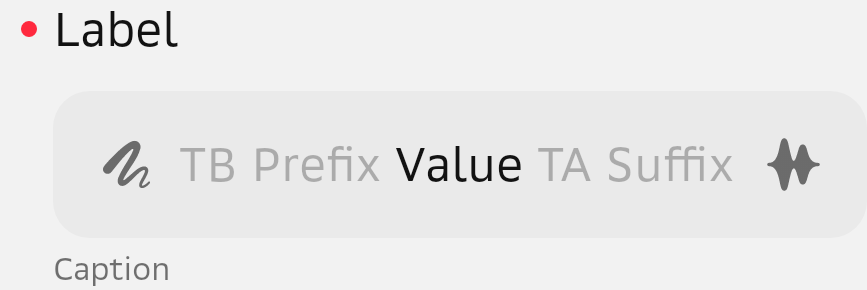
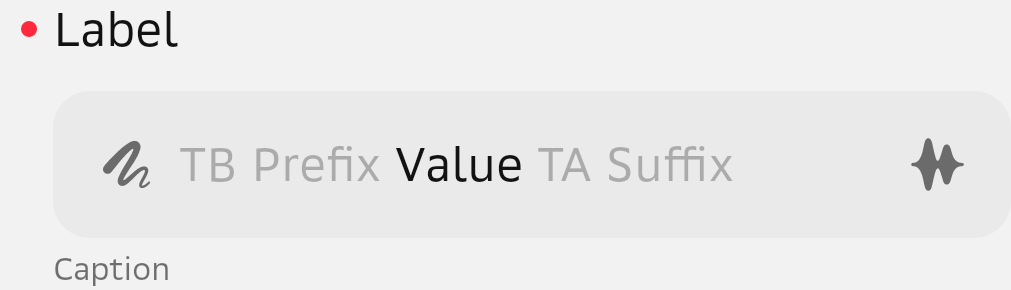
feat(sdds-acore/uikit-compose): prefix and suffix for placeholder were added

diff --git a/sdds-core/uikit-compose/src/main/kotlin/com/sdds/compose/uikit/internal/textfield/BaseTextField.kt b/sdds-core/uikit-compose/src/main/kotlin/com/sdds/compose/uikit/internal/textfield/BaseTextField.kt
@@ -43,6 +43,7 @@ import androidx.compose.ui.layout.MeasureScope
 import androidx.compose.ui.layout.layoutId
 import androidx.compose.ui.platform.LocalLayoutDirection
 import androidx.compose.ui.platform.testTag
+import androidx.compose.ui.text.AnnotatedString
 import androidx.compose.ui.text.TextStyle
 import androidx.compose.ui.text.input.TextFieldValue
 import androidx.compose.ui.text.input.VisualTransformation
@@ -73,7 +74,6 @@ import com.sdds.compose.uikit.internal.focusselector.LocalFocusSelectorMode
 import com.sdds.compose.uikit.internal.focusselector.applyFocusSelector
 import com.sdds.compose.uikit.internal.heightOrZero
 import com.sdds.compose.uikit.internal.widthOrZero
-import com.sdds.compose.uikit.prefixSuffixTransformation
 import com.sdds.compose.uikit.scrollbar
 
 /**
@@ -179,19 +179,26 @@ internal fun BaseTextField(
     val finalOptionalText =
         if (labelPlacement == LabelPlacement.None) "" else optionalText
 
-    val innerVisualTransformation = remember(
-        prefix,
-        suffix,
-        visualTransformation,
-        prefixStyle,
-        suffixStyle,
-    ) {
-        if (prefix.isNullOrEmpty() && suffix.isNullOrEmpty()) {
-            visualTransformation
-        } else {
-            prefixSuffixTransformation(prefix, suffix, prefixStyle, suffixStyle)
-        }
+    val valuePrefixSuffixTransformation = rememberPrefixSuffixTransformation(
+        prefix = prefix,
+        suffix = suffix,
+        prefixTextStyle = prefixStyle,
+        suffixTextStyle = suffixStyle,
+        transparent = value.text.isEmpty(),
+    )
+    val valueTransformation = if (prefix.isNullOrEmpty() && suffix.isNullOrEmpty()) {
+        visualTransformation
+    } else {
+        valuePrefixSuffixTransformation
     }
+    val placeholderPrefixSuffixTransformation = rememberPrefixSuffixTransformation(
+        prefix = prefix,
+        suffix = suffix,
+        prefixTextStyle = prefixStyle,
+        suffixTextStyle = suffixStyle,
+        transparent = value.text.isNotEmpty(),
+    )
+
     var isComponentFocused by remember { mutableStateOf(false) }
 
     /**
@@ -245,7 +252,7 @@ internal fun BaseTextField(
         keyboardOptions = keyboardOptions,
         keyboardActions = keyboardActions,
         singleLine = singleLine,
-        visualTransformation = innerVisualTransformation,
+        visualTransformation = valueTransformation,
         interactionSource = innerInteractionSource,
         cursorBrush = SolidColor(
             colors.cursorColor(readOnly).colorForInteraction(interactionSource),
@@ -331,7 +338,7 @@ internal fun BaseTextField(
                             ),
                         value = value.text,
                         innerTextField = it,
-                        visualTransformation = innerVisualTransformation,
+                        visualTransformation = visualTransformation,
                         interactionSource = innerInteractionSource,
                         innerLabel = innerLabel(
                             label = finalLabelText,
@@ -352,7 +359,11 @@ internal fun BaseTextField(
                             innerOptionalStyle = optionalStyle,
                             hasChips = chipsContent != null,
                         ),
-                        placeholder = placeholder(placeholderText, placeholderStyle),
+                        placeholder = placeholder(
+                            placeholderText,
+                            placeholderStyle,
+                            placeholderPrefixSuffixTransformation,
+                        ),
                         startIcon = icon(
                             startContent,
                             colors
@@ -648,11 +659,13 @@ private fun outerLabelIndicatorAlignment(fieldType: FieldType): Alignment {
 private fun placeholder(
     placeholder: String?,
     textStyle: TextStyle,
+    visualTransformation: VisualTransformation,
 ): @Composable (() -> Unit)? {
-    if (placeholder == null) return null
+    if (placeholder.isNullOrEmpty()) return null
     return {
+        val annotatedPlaceholder = visualTransformation.filter(AnnotatedString(placeholder)).text
         Text(
-            text = placeholder,
+            text = annotatedPlaceholder,
             style = textStyle,
         )
     }

diff --git a/sdds-core/uikit-compose/src/main/kotlin/com/sdds/compose/uikit/internal/textfield/PrefixSuffixTransformation.kt b/sdds-core/uikit-compose/src/main/kotlin/com/sdds/compose/uikit/internal/textfield/PrefixSuffixTransformation.kt
@@ -1,5 +1,8 @@
 package com.sdds.compose.uikit.internal.textfield
 
+import androidx.compose.runtime.Composable
+import androidx.compose.runtime.remember
+import androidx.compose.ui.graphics.Color
 import androidx.compose.ui.text.AnnotatedString
 import androidx.compose.ui.text.TextStyle
 import androidx.compose.ui.text.input.OffsetMapping
@@ -11,20 +14,34 @@ internal class PrefixSuffixTransformation(
     suffix: String = "",
     prefixTextStyle: TextStyle = TextStyle(),
     suffixTextStyle: TextStyle = TextStyle(),
+    transparent: Boolean = false,
 ) : VisualTransformation {
 
     private val prefixWithWhiteSpace = if (prefix.isNotEmpty()) "$prefix " else ""
-    private val suffixWithWhiteSpace = if (suffix.isNotEmpty())" $suffix" else ""
+    private val suffixWithWhiteSpace = if (suffix.isNotEmpty()) " $suffix" else ""
+
+    private val prefixSpanStyle = if (transparent) {
+        prefixTextStyle.copy(color = Color.Transparent)
+    } else {
+        prefixTextStyle
+    }.toSpanStyle()
+
+    private val suffixSpanStyle = if (transparent) {
+        suffixTextStyle.copy(color = Color.Transparent)
+    } else {
+        suffixTextStyle
+    }.toSpanStyle()
 
     private val prefixAnnotated = AnnotatedString(
         text = prefixWithWhiteSpace,
-        spanStyle = prefixTextStyle.toSpanStyle(),
+        spanStyle = prefixSpanStyle,
     )
 
     private val suffixAnnotated = AnnotatedString(
         text = suffixWithWhiteSpace,
-        spanStyle = suffixTextStyle.toSpanStyle(),
+        spanStyle = suffixSpanStyle,
     )
+
     override fun filter(text: AnnotatedString): TransformedText {
         val result = prefixAnnotated + text + suffixAnnotated
 
@@ -41,5 +58,48 @@ internal class PrefixSuffixTransformation(
         }
 
         return TransformedText(result, textWithPrefixSuffixMapping)
+    }
+}
+
+internal fun prefixSuffixTransformation(
+    prefix: String? = null,
+    suffix: String? = null,
+    prefixTextStyle: TextStyle = TextStyle(),
+    suffixTextStyle: TextStyle = TextStyle(),
+    transparent: Boolean = false,
+): VisualTransformation = if (prefix.isNullOrEmpty() && suffix.isNullOrEmpty()) {
+    VisualTransformation.None
+} else {
+    PrefixSuffixTransformation(
+        prefix = prefix.orEmpty(),
+        suffix = suffix.orEmpty(),
+        prefixTextStyle = prefixTextStyle,
+        suffixTextStyle = suffixTextStyle,
+        transparent = transparent,
+    )
+}
+
+@Composable
+internal fun rememberPrefixSuffixTransformation(
+    prefix: String? = null,
+    suffix: String? = null,
+    prefixTextStyle: TextStyle = TextStyle(),
+    suffixTextStyle: TextStyle = TextStyle(),
+    transparent: Boolean = false,
+): VisualTransformation {
+    return remember(
+        prefix,
+        suffix,
+        prefixTextStyle,
+        suffixTextStyle,
+        transparent,
+    ) {
+        prefixSuffixTransformation(
+            prefix = prefix,
+            suffix = suffix,
+            prefixTextStyle = prefixTextStyle,
+            suffixTextStyle = suffixTextStyle,
+            transparent = transparent,
+        )
     }
 }

diff --git a/sdds-core/uikit-compose/src/main/kotlin/com/sdds/compose/uikit/TextField.kt b/sdds-core/uikit-compose/src/main/kotlin/com/sdds/compose/uikit/TextField.kt
@@ -12,7 +12,6 @@ import androidx.compose.runtime.mutableStateOf
 import androidx.compose.runtime.remember
 import androidx.compose.runtime.setValue
 import androidx.compose.ui.Modifier
-import androidx.compose.ui.text.TextStyle
 import androidx.compose.ui.text.input.TextFieldValue
 import androidx.compose.ui.text.input.VisualTransformation
 import androidx.compose.ui.unit.Dp
@@ -22,7 +21,6 @@ import com.sdds.compose.uikit.TextField.LabelPlacement
 import com.sdds.compose.uikit.internal.focusselector.FocusSelectorMode
 import com.sdds.compose.uikit.internal.focusselector.LocalFocusSelectorMode
 import com.sdds.compose.uikit.internal.textfield.BaseTextField
-import com.sdds.compose.uikit.internal.textfield.PrefixSuffixTransformation
 
 /**
  * Поле ввода текста.
@@ -368,23 +366,3 @@ object TextArea
  * Вспомогательный объект для описания API и стиля компонента
  */
 object TextAreaClear
-
-/**
- * Вернет [VisualTransformation], которая добавит префикс [prefix] и/или суффикс [suffix].
- * Отступ до основного текста будет иметь ширину пробела в соответствующем текстовом стиле.
- *
- * @param prefix значение префикса
- * @param suffix значение суффикса
- * @param prefixTextStyle стиль [prefix]
- * @param suffixTextStyle стиль [suffix]
- */
-fun prefixSuffixTransformation(
-    prefix: String? = null,
-    suffix: String? = null,
-    prefixTextStyle: TextStyle = TextStyle(),
-    suffixTextStyle: TextStyle = TextStyle(),
-): VisualTransformation = if (prefix.isNullOrEmpty() && suffix.isNullOrEmpty()) {
-    VisualTransformation.None
-} else {
-    PrefixSuffixTransformation(prefix.orEmpty(), suffix.orEmpty(), prefixTextStyle, suffixTextStyle)
-}
